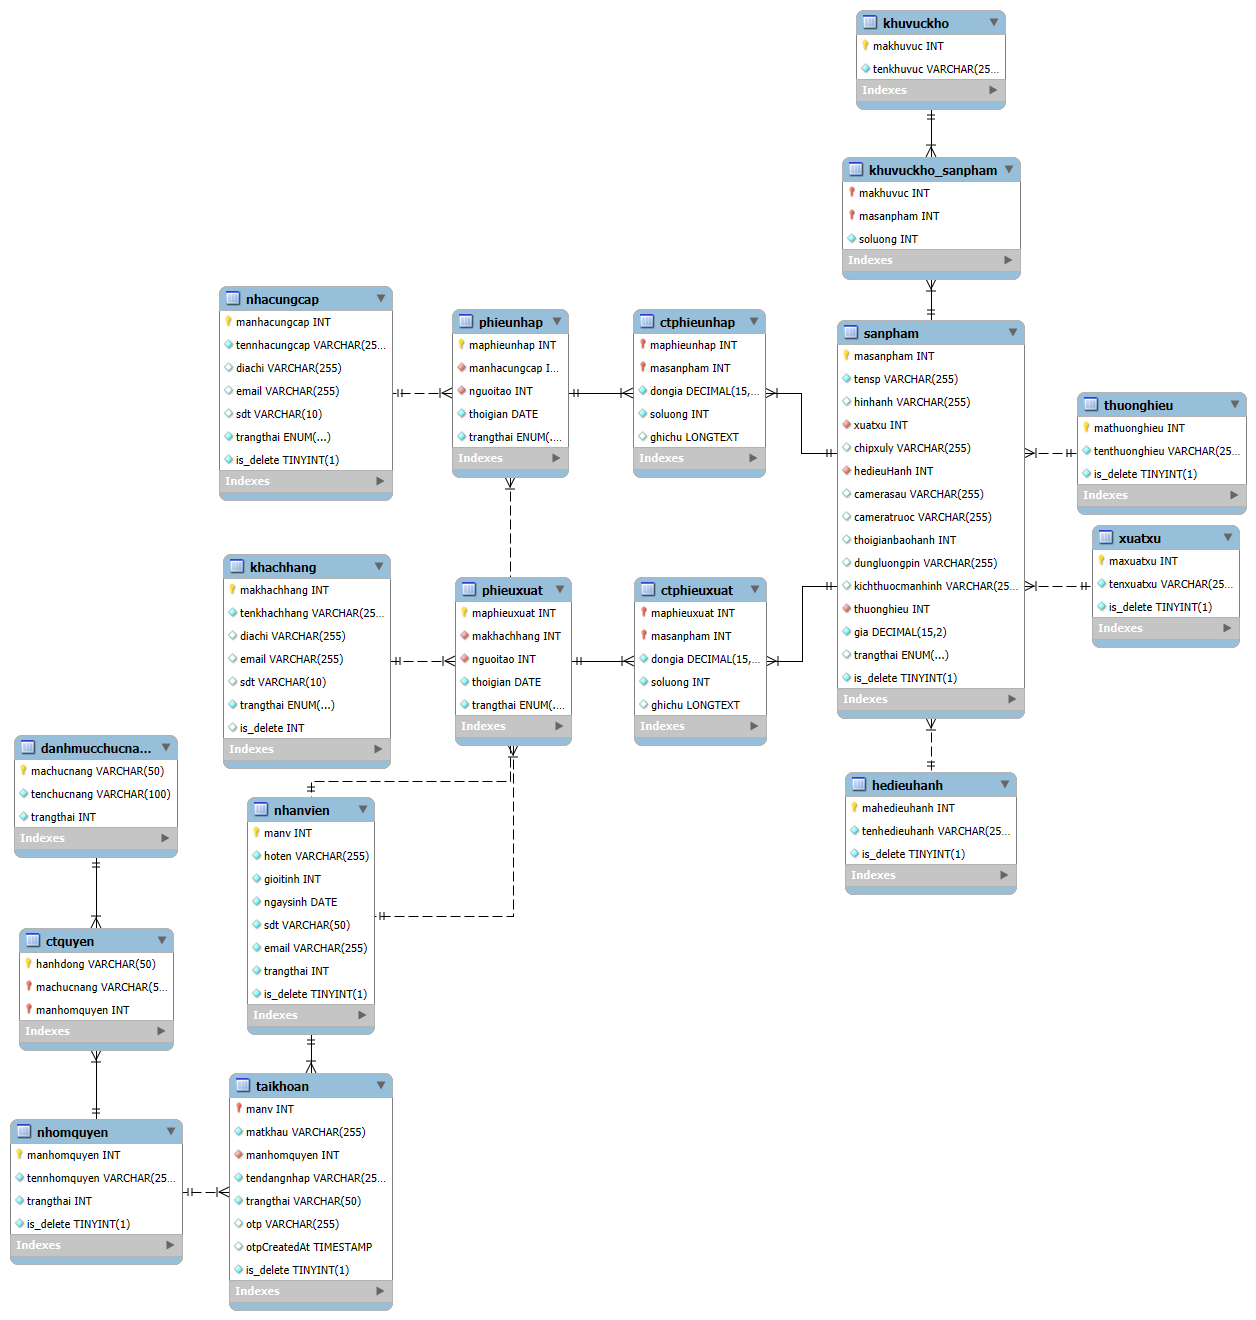
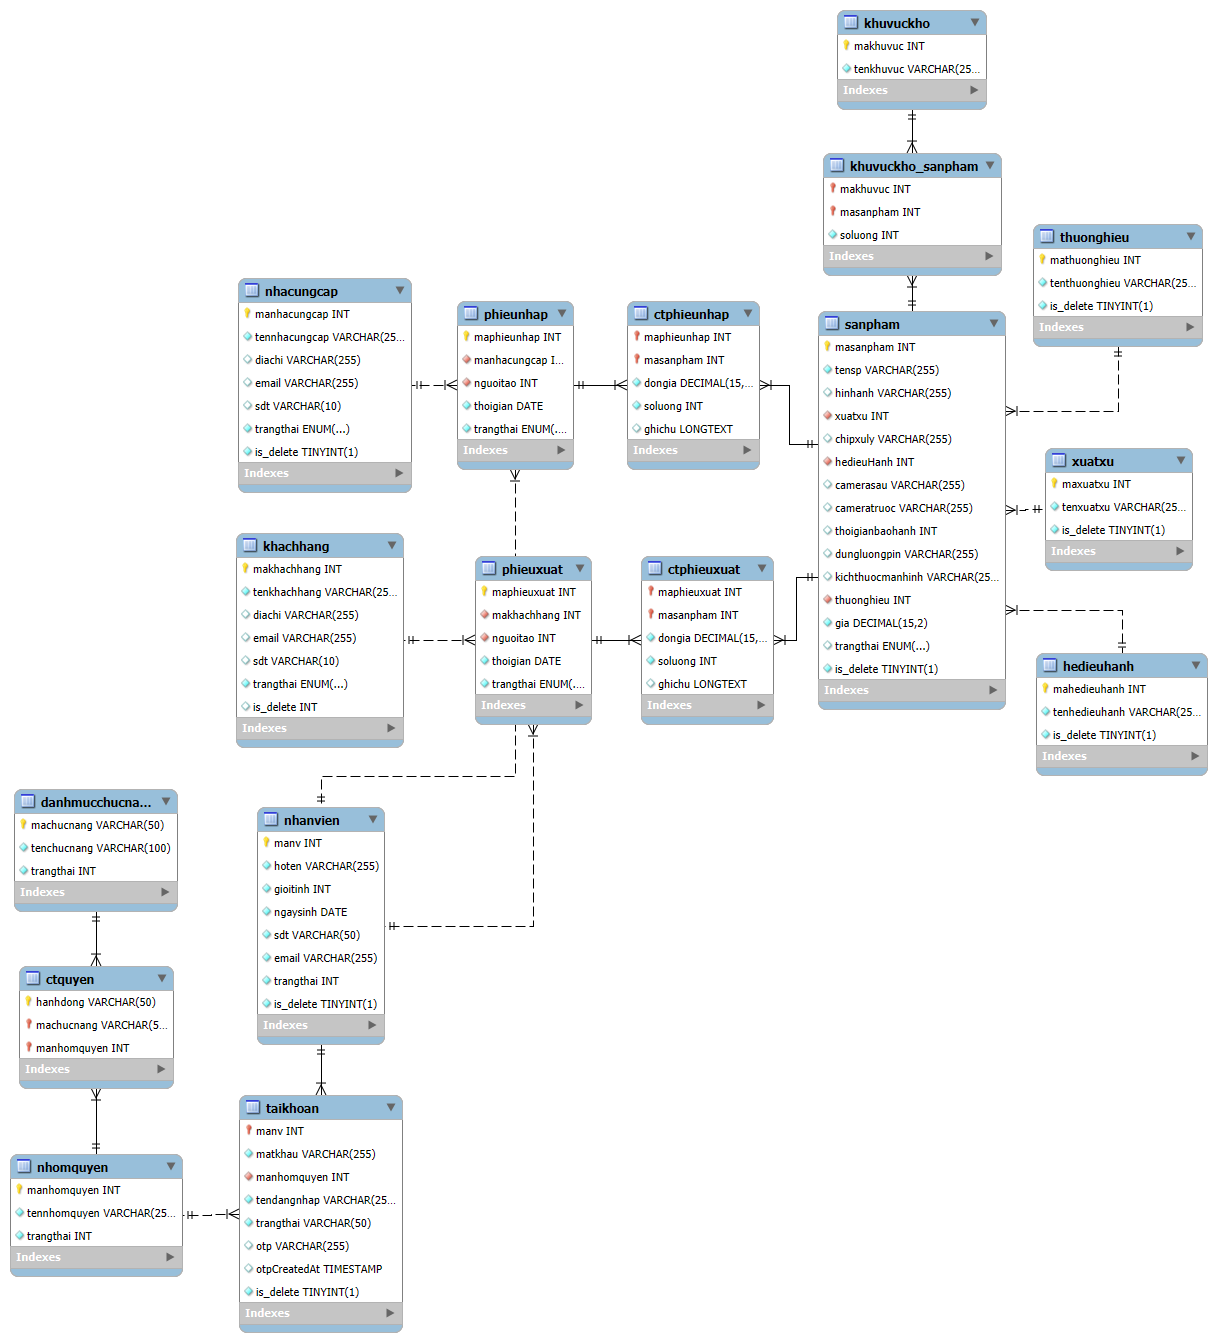
fix/update-product-table

Changed region(s): [[0.0, 0.0, 0.9992, 0.9939], [0.3122, 0.9629, 0.3435, 0.9939]]

diff --git a/src/zentech/application/form/other/FormHomePage.java b/src/zentech/application/form/other/FormHomePage.java
@@ -37,6 +37,10 @@ public class FormHomePage extends javax.swing.JPanel {
     }
 
     private void initalUI(JTable table) {
+        table.setFont(new java.awt.Font("Segoe UI", java.awt.Font.PLAIN, 16));
+        table.setRowHeight(30);
+        table.getTableHeader().setFont(new java.awt.Font("Segoe UI", java.awt.Font.PLAIN, 18));
+        
         panel1.putClientProperty("FlatLaf.style",
                 "[light]border:0,0,0,0,shade(@background,5%),,20;"
                 + "[dark]border:0,0,0,0,tint(@background,5%),,20;");
@@ -72,8 +76,8 @@ public class FormHomePage extends javax.swing.JPanel {
                 Component com = oldRender.getTableCellRendererComponent(table, value, isSelected, hasFocus, row, column);
                 if (com instanceof JLabel) {
                     JLabel label = (JLabel) com;
-                    if (column == 0) {
-                        label.setHorizontalAlignment(SwingConstants.LEFT);
+                    if (column == 0 || column == 1 || column == 2 || column == 3 || column == 4 || column == 5) {
+                        label.setHorizontalAlignment(SwingConstants.LEFT); //Căn trái
                     } else {
                         label.setHorizontalAlignment(SwingConstants.CENTER);
                     }
@@ -359,6 +363,7 @@ public class FormHomePage extends javax.swing.JPanel {
                 return canEdit [columnIndex];
             }
         });
+        tblSanPham.getTableHeader().setReorderingAllowed(false);
         jScrollPane1.setViewportView(tblSanPham);
 
         crazyPanel1.add(jScrollPane1);

diff --git a/src/zentech/application/form/other/ProductForm.java b/src/zentech/application/form/other/ProductForm.java
@@ -161,9 +161,7 @@ public class ProductForm extends javax.swing.JPanel {
                 Component com = oldRender.getTableCellRendererComponent(table, value, isSelected, hasFocus, row, column);
                 if (com instanceof JLabel) {
                     JLabel label = (JLabel) com;
-                    if (column == 1) {
-                        label.setHorizontalAlignment(SwingConstants.CENTER); //Căn giữa
-                    } else if (column == 0 || column == 2 || column == 3 || column == 4 || column == 5) {
+                    if (column == 0 || column == 1 || column == 2 || column == 3 || column == 4 || column == 5) {
                         label.setHorizontalAlignment(SwingConstants.LEFT); //Căn trái
                     } else {
                         label.setHorizontalAlignment(SwingConstants.CENTER);
@@ -394,7 +392,7 @@ public class ProductForm extends javax.swing.JPanel {
 
             },
             new String [] {
-                "Mã", "Tên sản phẩm", "Thương hiệu", "Giá bán", "Hệ điều hành", "Xuất xứ", "Trạng thái"
+                "Mã", "Tên sản phẩm", "Thương hiệu", "Hệ điều hành", "Xuất xứ", "Giá bán", "Trạng thái"
             }
         ) {
             boolean[] canEdit = new boolean [] {
